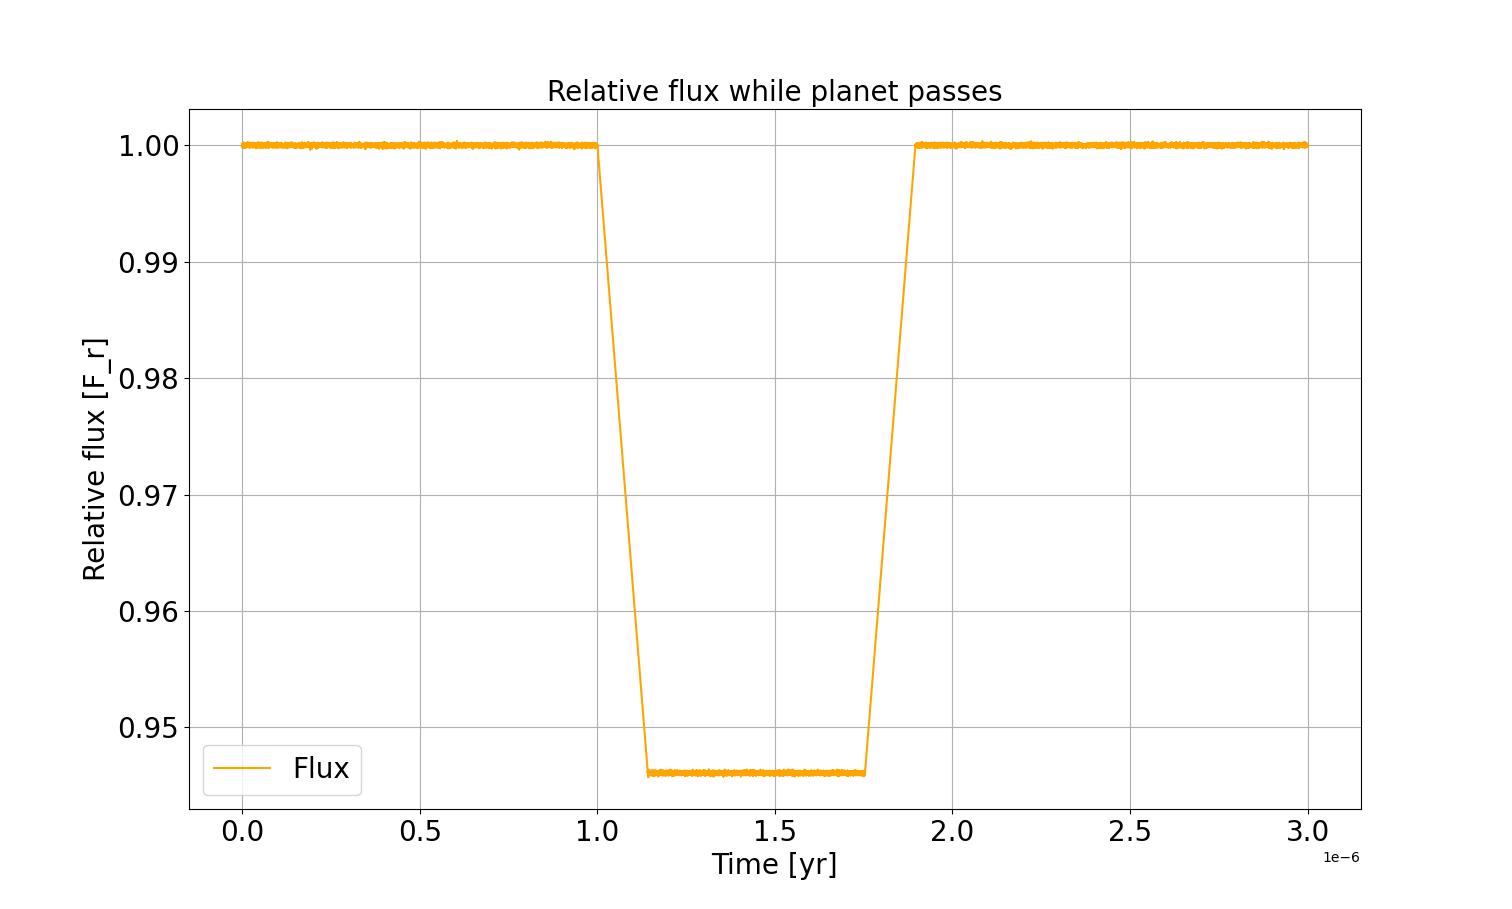
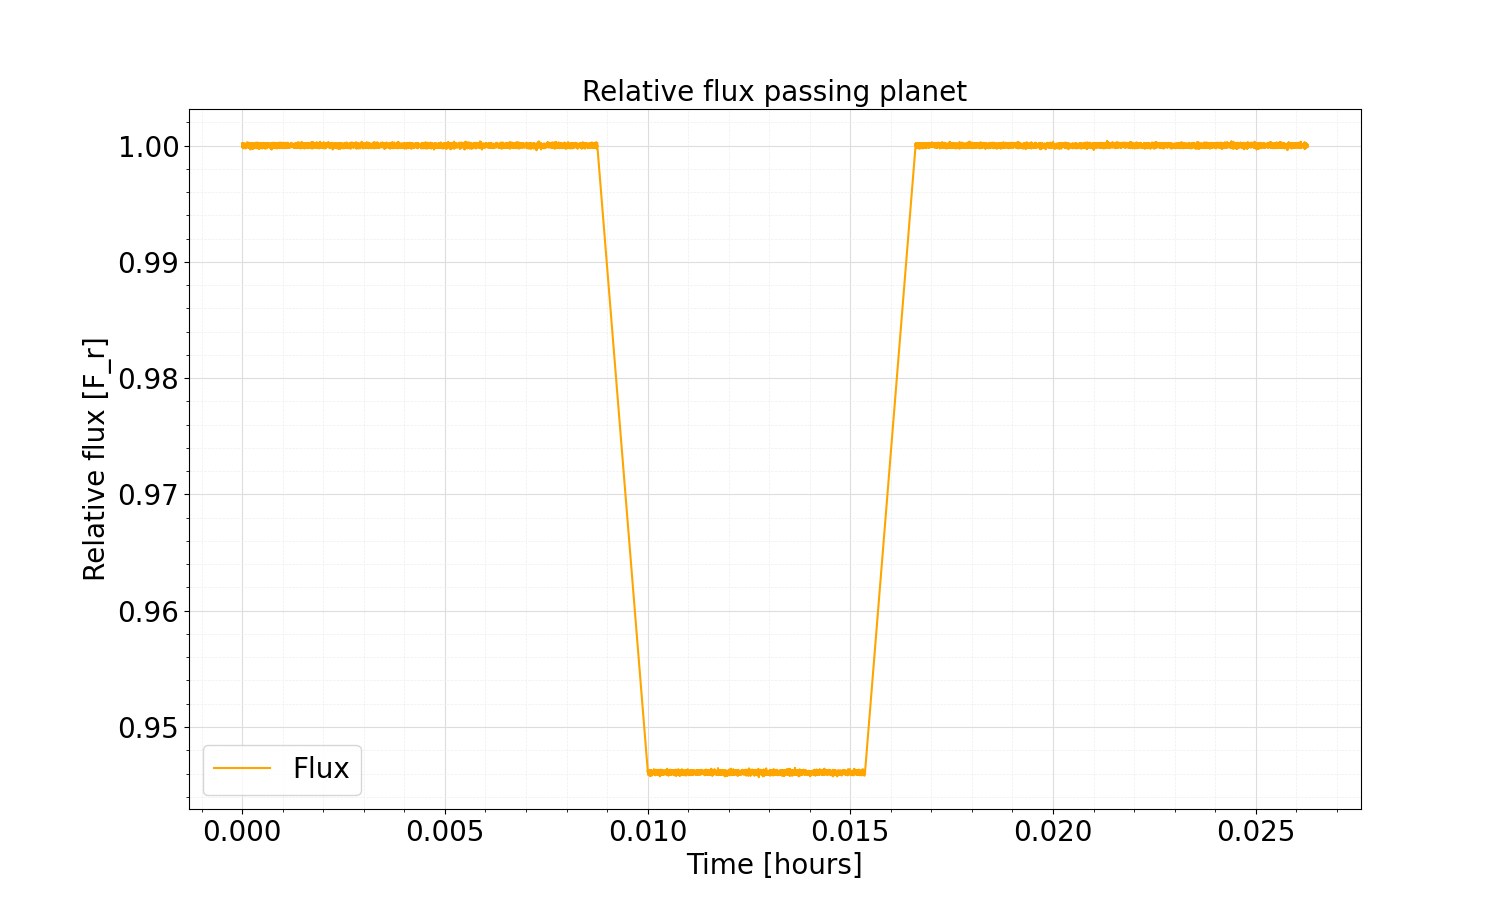
levert.

diff --git a/P2.py b/P2.py
@@ -242,7 +242,7 @@ def plot_orbits(T, dt):
     plt.show()
 
 
-# plot_orbits(T=3, dt=10e-7)
+plot_orbits(T=3, dt=10e-7)
 
 
 # Task B
@@ -324,16 +324,15 @@ def test_kepler_laws(T, dt):
         print("\n")
 
 
-# test_kepler_laws(3, 10e-7)
-
-# for i in range(len(masses)):  #Checks which planet gives the most shift in the centre of mass.
-#     CM = (1 / (star_mass + masses[i])) * ((masses[i] * np.array([initial_positions[0][i], initial_positions[1][i]])))
-#     print(np.linalg.norm(CM)) #Gets planet nr.2, which we now will use in MovingTheSun function.
+test_kepler_laws(3, 10e-7)
 
 
 # Task C. Using planet 2
 @njit
 def moving_the_sun(T, dt):
+    """Function simulates new orbits for sun and planet with reference to
+    center of mass usin leapfrog with Newtons law of gravitation. With this orbits
+    it also calculates the potential and kinetic energy. Returns arrays with results."""
     # T is the amount of time in years
     # dt is the timestep per year
     t_array = np.arange(0, T, dt)
@@ -346,22 +345,8 @@ def moving_the_sun(T, dt):
     CM = (1 / (M)) * (
         (planet_mass * planet_pos) + (star_mass * star_pos)
     )  # Finds CM, which we now will use as the origin, as it will be fixed to the origin.
-    # print(planet_pos, star_pos, CM)
-    # plt.scatter(star_pos[0], star_pos[1], label = 'Star')         #Checks tha the value for CM makes sense
-    # plt.scatter(planet_pos[0], planet_pos[1], label = 'Planet')
-    # plt.scatter(CM[0], CM[1], label = 'CM')
-    # plt.legend()
-    # plt.axis('equal')
-    # plt.show()
     star_pos = -CM  # Star and planet are moved according to the CM.
     planet_pos = planet_pos - CM
-    # plt.scatter(star_pos[0], star_pos[1], label = 'Star')         #Checks tha the new value for CM is at the origin
-    # plt.scatter(planet_pos[0], planet_pos[1], label = 'Planet')
-    # plt.scatter(CM_origin[0], CM_origin[1], label = 'CM')
-    # plt.legend()
-    # plt.axis('equal')
-    # plt.show()
-    # N = int(T // dt)  # Definerer verdier til loopen
     N = len(t_array)
     star_pos_a = np.zeros((N, 2))
     star_pos_a[0] = star_pos
@@ -389,6 +374,7 @@ def moving_the_sun(T, dt):
         planet_vel_a[i + 1] = planet_vel_a[i] + 0.5 * (a_planet + a_planet_next) * dt
         a_star = a_star_next
         a_planet = a_planet_next
+    ## Plot star pos and planet pos ##
     # plt.plot(star_pos_a[:, 0], star_pos_a[:, 1], label="Star")
     # plt.plot(planet_pos_a[:, 0], planet_pos_a[:, 1], label="Planet")
     # plt.legend()
@@ -433,6 +419,7 @@ def moving_the_sun(T, dt):
 
 
 def plot_energy(T, dt):
+    """Simple function that plots the energy of the new orbits."""
     star_pos_a, star_vel_a, planet_pos_a, E_cm, Ek_cm, Eu_cm, t_array = moving_the_sun(
         T=T, dt=dt
     )
@@ -451,10 +438,12 @@ def plot_energy(T, dt):
     plt.show()
 
 
-# plot_energy(T=1, dt=10e-8)
+plot_energy(T=1, dt=10e-8)
 
 
 def radial_velocity(T, dt):
+    """Function creates a plot of the stars radial-velocity as seen from outside our solar-system,
+    in the x/y-plane. Adds Gaussian-noise to simulate signal-disturbances."""
     star_pos_a, star_vel_a, planet_pos_a, E_cm, Ek_cm, Eu_cm, t_array = moving_the_sun(
         T=T, dt=dt
     )
@@ -477,7 +466,7 @@ def radial_velocity(T, dt):
     plt.show()
 
 
-# radial_velocity(T=1, dt=10e-7)
+radial_velocity(T=1, dt=10e-7)
 
 
 def calculate_exoplanet_mass(m_s, v_r, P, i=np.pi / 2):
@@ -494,6 +483,8 @@ def calculate_exoplanet_mass(m_s, v_r, P, i=np.pi / 2):
 
 
 def light_curve(T=0.000003, dt=10e-11):
+    """Function creates a plot showing the relative changement in flux when a star
+    is passed by a planet."""
     dia_planet = 2 * (radii[2] / Au)
     dia_star = 2 * (star_radius / Au)
     mean_vel = (5.08333400535115 + 5.37349607140599) / 2
@@ -517,17 +508,23 @@ def light_curve(T=0.000003, dt=10e-11):
         (max_flux_array1, low_flux_array, max_flux_array2), axis=None
     )
     mean = 0  # Defines values for the noise. Mean = 0 due to the noise being equal on both sides of the curve.
-    std = (
-        1 * (1 - (area_planet / area_star)) * 10 ** (-4)
-    )  # Std = 1/5 of the maximum value of the velocity
+    std = 10 ** (-4)  # Std = 10^4
     gaussian_noise = np.random.normal(
         mean, std, size=(len(flux_array))
     )  # Normal distribution using values defined above
-    plt.plot(t_array, flux_array + gaussian_noise, color="orange", label="Flux")
-    plt.xlabel("Time [yr]", fontsize=20)
+    hours_pr_year = 24 * 365
+    plt.plot(
+        t_array * hours_pr_year,
+        flux_array + gaussian_noise,
+        color="orange",
+        label="Flux",
+    )
+    plt.xlabel("Time [hours]", fontsize=20)
     plt.ylabel("Relative flux [F_r]", fontsize=20)
-    plt.title("Relative flux while planet passes", fontsize=20)
-    plt.grid()
+    plt.title("Relative flux passing planet", fontsize=20)
+    plt.minorticks_on()
+    plt.grid(which="major", color="#DDDDDD", linewidth=0.8)
+    plt.grid(which="minor", color="#EEEEEE", linestyle="--", linewidth=0.5)
     plt.legend(fontsize=20)
     plt.xticks(fontsize=20)
     plt.yticks(fontsize=20)
@@ -535,3 +532,19 @@ def light_curve(T=0.000003, dt=10e-11):
 
 
 light_curve()
+
+
+def calculate_exoplanet_density():
+    """Function calculates and return explanet radius (r) and mean density (rho)"""
+    v_r = 0.000004
+    m_p = calculate_exoplanet_mass(m_s=3.660552991847526, v_r=0.000004, P=8.6)
+    m_s = 3.660552991847526
+    v_p = (v_r * m_s) / (m_p)
+    delta_t = 0.8 / (24 * 365)
+    r = (v_r + v_p) * (delta_t / 2) * (Au / 1000)
+    rho = (m_p * SM) / (4 * np.pi * r**3 / 3)
+    print(f"Planet radius [Km]: {r}")
+    print(f"Planet mean-density [kg/km**3]: {rho}")
+
+
+# calculate_exoplanet_density()
